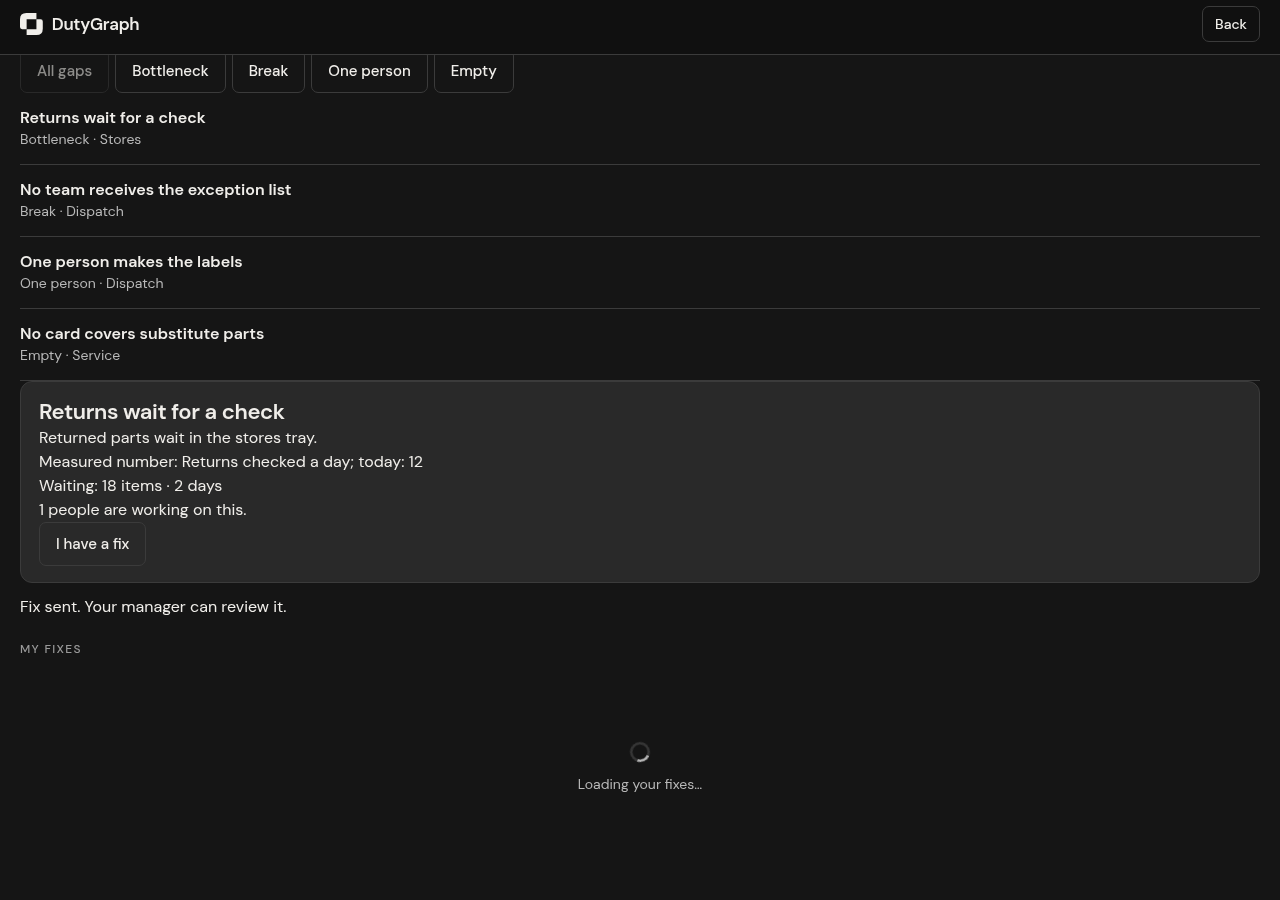
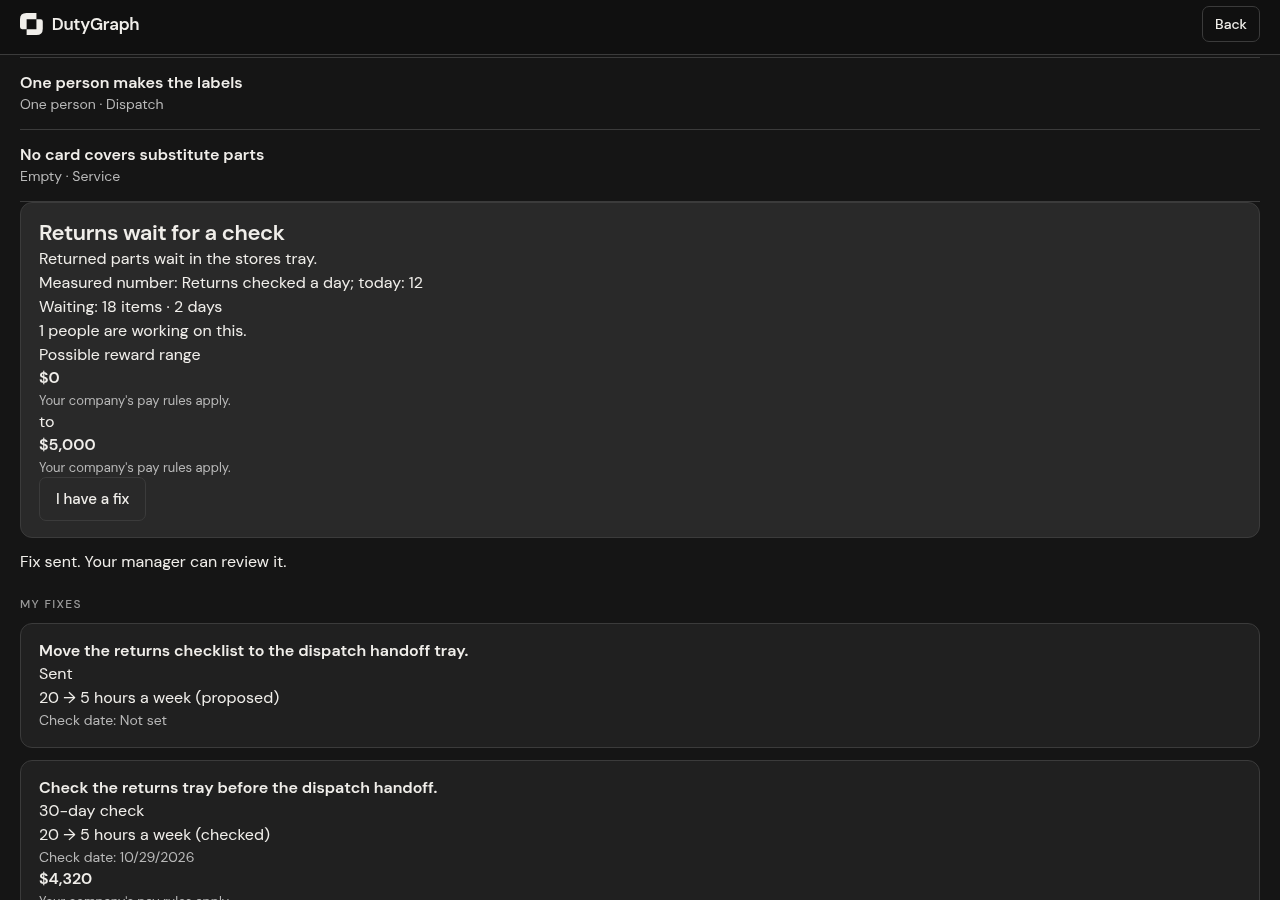
Close Earn phone verification after enrollment-boundary fix

diff --git a/docs/REDTEAM.md b/docs/REDTEAM.md
@@ -259,7 +259,7 @@ Fix: Suppress financial hints until summary positively establishes enabled=true.
 
 ### Verified final disposition
 
-No confirmed High findings. All five confirmed Medium findings are fixed. Root verified the reported code paths and failing-before/passing-after evidence; independent R2 correction review additionally found no new High/Medium in persistence/retry scope.
+No confirmed High findings. All five Medium findings from the original freeze are fixed; additional R2-03 below is also corrected. Root verified the reported code paths and failing-before/passing-after evidence; independent R2 correction review additionally found no new High/Medium in persistence/retry scope.
 
 | ID | Disposition and regression evidence |
 | --- | --- |
@@ -330,3 +330,9 @@ Changed only HttpEarnRepository.ts, repository.test.ts and pending-command.ts du
 The deterministic regression injects the enrollment change at the exact boundary after a real ApiClient GET has completed; it is not a device timing rehearsal. No full suite, real backend, real device or provider checks were run by this reviewer. The original durable retry and atomic local confirmation corrections remain separately reviewed in phone-correction-r2.md. Production database and money-ledger responsibilities remain outside this phone correction.
 
 Root full mobile verification after the fix: **553/553**,65 suites,35.604s; TypeScript and whole lint passed. This is the sixth confirmed Medium, corrected with a failing-before/passing-after actual transport regression. No confirmed High; no uncorrected Medium remains in reviewed client scope.
+
+## 2026-10-28 — Earn phone final close
+
+Final corrected code `f01d76a1e355df41af990cab9e7e2619ddfaa436`:553/553 mobile tests (65 suites), TypeScript/lint passed. Unchanged development-server76/shared78 checks remain passing. After R2-03, actual-enrollment fake-HTTP360/1280 journeys passed again with no page/render errors, overflow or microphone calls. Fresh release export/static fixture refusal passed before seed reads; normal legacy enrollment still worked. Evidence refreshed in docs/earn-client/BROWSER.md. Browser normal flow checks compatibility; the focused actual-transport regression verifies the hostile enrollment interleaving. Only owned QA servers were stopped and ports4510/4512/4513 verified clear.
+
+Six confirmed Medium findings and all reported Lows are corrected, no confirmed High. Audit remains failed on the documented Expo toolchain path; no native/device/provider/payment acceptance was run. Final shared handover and both draft PR links above are authoritative; neither PR is merged.

diff --git a/docs/earn-client/BROWSER.md b/docs/earn-client/BROWSER.md
@@ -71,3 +71,9 @@ After the five phone reviews and their source corrections, the complete developm
 The first repeat stopped on the runner's stale exact Scoreboard accessible name. Rows now expose their description as part of the accessible name. The runner now uses narrow title prefixes for these rows and draft/gap entries; no product change or runtime error was involved. The subsequent full runs passed. Existing missing-slot Add, local detail and explicit Confirm still passed after the slot UI corrections.
 
 A fresh production HTTP export then completed successfully. Its actual static release bundle again enrolled through the legacy flow and refused new Earn development fixtures before any draft or summary seed requests. The exported JavaScript scan again found zero matches for the three named Earn seed strings. All 19 screenshots and both results JSON files were refreshed from these post-review runs. Node syntax and owned-file whitespace checks passed. No real phone, native microphone or live provider was tested.
+
+## Final cross-enrollment fence repeat
+
+After the additional R2-03 capability-read/write generation fence correction, the complete actual-enrollment development journey passed again at 360px and 1280px. The runner required no changes. Both runs used the real participant tokenStore and pending-command helper, with no authentication or storage stubs, and reported zero exceptions, React render warnings, horizontal overflow or microphone calls. This full-journey repeat confirms normal writes still work; the parent's focused regression covers the cross-enrollment interleaving itself.
+
+The release HTTP export completed again, and its actual static bundle passed legacy enrollment followed by Earn fixture refusal before any draft or summary seed request. The same three-string exported-JavaScript scan again found zero matches. Screenshots and both results JSON files were refreshed. Syntax and owned-file whitespace checks passed. Only owned Expo/static process groups were stopped afterward; local ports 4510, 4512 and 4513 were verified clear. Native device behavior and live providers remain not run.

diff --git a/PROGRESS.md b/PROGRESS.md
@@ -106,3 +106,9 @@ Final local checks: mobile552/552, dev-server76/76, shared78/78, TypeScript/lint
 ## 2026-10-28 — Earn phone B2.5: final enrollment boundary
 
 A final independent transport probe reproduced R2-03: capability discovery and the following POST each captured a different session generation, allowing old reviewed words to be posted after replacement enrollment. Generation now spans the whole repository operation, the outer spoken-draft capability check and synchronous pending callback dispatch. The actual ApiClient regression failed before and21 focused tests passed after; full mobile553/553, TypeScript and whole lint passed. Dev-server76/shared78 remain unchanged and passing. This sixth confirmed Medium is fixed; original review reports and exact counterexample are in docs/REDTEAM.md. Final repeated browser/export and corrected-head CI follow. Audit/device/backend limitations remain unchanged.
+
+## 2026-10-28 — Earn phone final close
+
+Final corrected code `f01d76a1e355df41af990cab9e7e2619ddfaa436`:553/553 mobile tests (65 suites), TypeScript/lint passed. Unchanged development-server76/shared78 checks remain passing. After R2-03, actual-enrollment fake-HTTP360/1280 journeys passed again with no page/render errors, overflow or microphone calls. Fresh release export/static fixture refusal passed before seed reads; normal legacy enrollment still worked. Evidence refreshed in docs/earn-client/BROWSER.md. Browser normal flow checks compatibility; the focused actual-transport regression verifies the hostile enrollment interleaving. Only owned QA servers were stopped and ports4510/4512/4513 verified clear.
+
+Six confirmed Medium findings and all reported Lows are corrected, no confirmed High. Audit remains failed on the documented Expo toolchain path; no native/device/provider/payment acceptance was run. Final shared handover and both draft PR links above are authoritative; neither PR is merged.

diff --git a/README.md b/README.md
@@ -100,3 +100,9 @@ Earn B2 final local checks:552 mobile/76 dev-server/78 shared tests plus TypeScr
 ## 2026-10-28 — Earn phone B2.5: final enrollment boundary
 
 A final independent transport probe reproduced R2-03: capability discovery and the following POST each captured a different session generation, allowing old reviewed words to be posted after replacement enrollment. Generation now spans the whole repository operation, the outer spoken-draft capability check and synchronous pending callback dispatch. The actual ApiClient regression failed before and21 focused tests passed after; full mobile553/553, TypeScript and whole lint passed. Dev-server76/shared78 remain unchanged and passing. This sixth confirmed Medium is fixed; original review reports and exact counterexample are in docs/REDTEAM.md. Final repeated browser/export and corrected-head CI follow. Audit/device/backend limitations remain unchanged.
+
+## 2026-10-28 — Earn phone final close
+
+Final corrected code `f01d76a1e355df41af990cab9e7e2619ddfaa436`:553/553 mobile tests (65 suites), TypeScript/lint passed. Unchanged development-server76/shared78 checks remain passing. After R2-03, actual-enrollment fake-HTTP360/1280 journeys passed again with no page/render errors, overflow or microphone calls. Fresh release export/static fixture refusal passed before seed reads; normal legacy enrollment still worked. Evidence refreshed in docs/earn-client/BROWSER.md. Browser normal flow checks compatibility; the focused actual-transport regression verifies the hostile enrollment interleaving. Only owned QA servers were stopped and ports4510/4512/4513 verified clear.
+
+Six confirmed Medium findings and all reported Lows are corrected, no confirmed High. Audit remains failed on the documented Expo toolchain path; no native/device/provider/payment acceptance was run. Final shared handover and both draft PR links above are authoritative; neither PR is merged.

diff --git a/DECISIONS-LOG.md b/DECISIONS-LOG.md
@@ -58,3 +58,9 @@ Final local checks: mobile552/552, dev-server76/76, shared78/78, TypeScript/lint
 ## 2026-10-28 — Earn phone B2.5: final enrollment boundary
 
 A final independent transport probe reproduced R2-03: capability discovery and the following POST each captured a different session generation, allowing old reviewed words to be posted after replacement enrollment. Generation now spans the whole repository operation, the outer spoken-draft capability check and synchronous pending callback dispatch. The actual ApiClient regression failed before and21 focused tests passed after; full mobile553/553, TypeScript and whole lint passed. Dev-server76/shared78 remain unchanged and passing. This sixth confirmed Medium is fixed; original review reports and exact counterexample are in docs/REDTEAM.md. Final repeated browser/export and corrected-head CI follow. Audit/device/backend limitations remain unchanged.
+
+## 2026-10-28 — Earn phone final close
+
+Final corrected code `f01d76a1e355df41af990cab9e7e2619ddfaa436`:553/553 mobile tests (65 suites), TypeScript/lint passed. Unchanged development-server76/shared78 checks remain passing. After R2-03, actual-enrollment fake-HTTP360/1280 journeys passed again with no page/render errors, overflow or microphone calls. Fresh release export/static fixture refusal passed before seed reads; normal legacy enrollment still worked. Evidence refreshed in docs/earn-client/BROWSER.md. Browser normal flow checks compatibility; the focused actual-transport regression verifies the hostile enrollment interleaving. Only owned QA servers were stopped and ports4510/4512/4513 verified clear.
+
+Six confirmed Medium findings and all reported Lows are corrected, no confirmed High. Audit remains failed on the documented Expo toolchain path; no native/device/provider/payment acceptance was run. Final shared handover and both draft PR links above are authoritative; neither PR is merged.

diff --git a/DEVLOG.md b/DEVLOG.md
@@ -66,3 +66,9 @@ Final local checks: mobile552/552, dev-server76/76, shared78/78, TypeScript/lint
 ## 2026-10-28 — Earn phone B2.5: final enrollment boundary
 
 A final independent transport probe reproduced R2-03: capability discovery and the following POST each captured a different session generation, allowing old reviewed words to be posted after replacement enrollment. Generation now spans the whole repository operation, the outer spoken-draft capability check and synchronous pending callback dispatch. The actual ApiClient regression failed before and21 focused tests passed after; full mobile553/553, TypeScript and whole lint passed. Dev-server76/shared78 remain unchanged and passing. This sixth confirmed Medium is fixed; original review reports and exact counterexample are in docs/REDTEAM.md. Final repeated browser/export and corrected-head CI follow. Audit/device/backend limitations remain unchanged.
+
+## 2026-10-28 — Earn phone final close
+
+Final corrected code `f01d76a1e355df41af990cab9e7e2619ddfaa436`:553/553 mobile tests (65 suites), TypeScript/lint passed. Unchanged development-server76/shared78 checks remain passing. After R2-03, actual-enrollment fake-HTTP360/1280 journeys passed again with no page/render errors, overflow or microphone calls. Fresh release export/static fixture refusal passed before seed reads; normal legacy enrollment still worked. Evidence refreshed in docs/earn-client/BROWSER.md. Browser normal flow checks compatibility; the focused actual-transport regression verifies the hostile enrollment interleaving. Only owned QA servers were stopped and ports4510/4512/4513 verified clear.
+
+Six confirmed Medium findings and all reported Lows are corrected, no confirmed High. Audit remains failed on the documented Expo toolchain path; no native/device/provider/payment acceptance was run. Final shared handover and both draft PR links above are authoritative; neither PR is merged.
